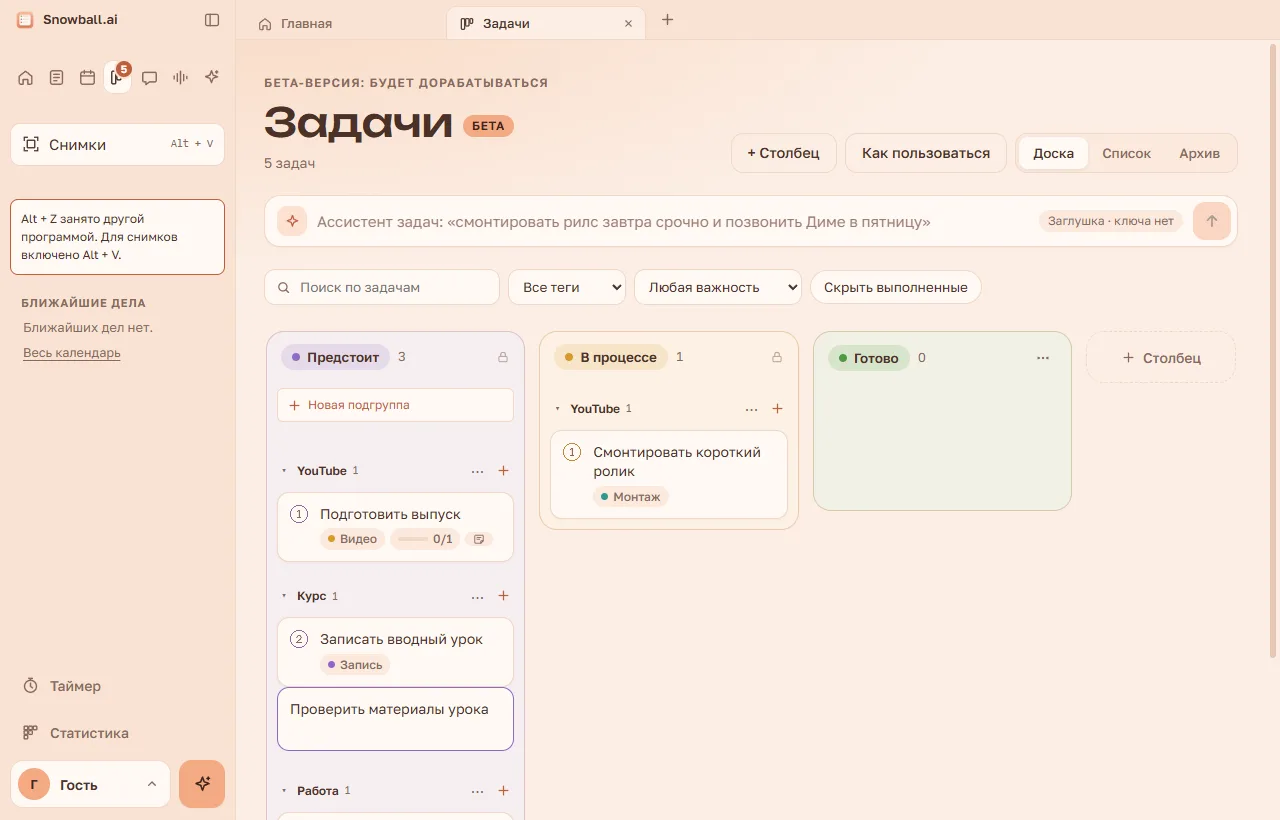
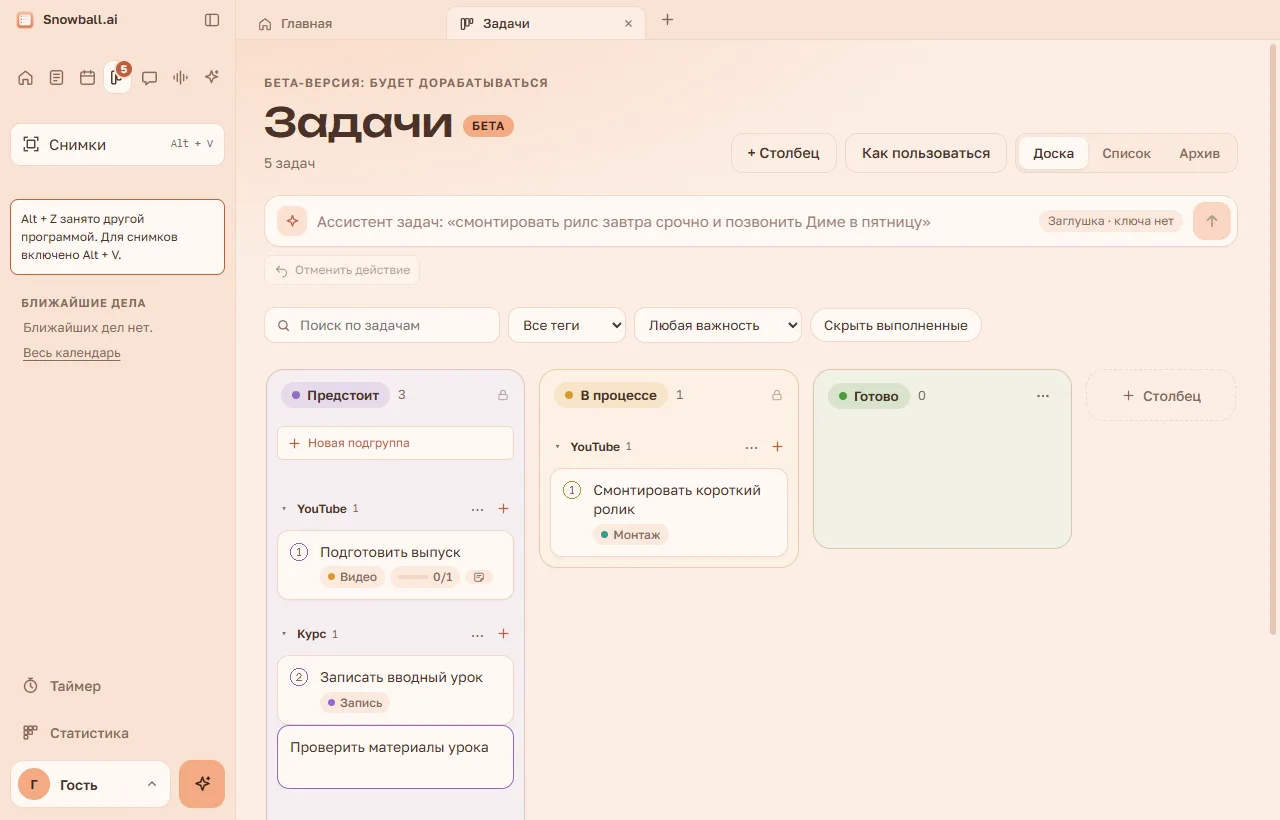
Версия 1.23.3: отмена последних действий ассистента задач

diff --git a/main.js b/main.js
@@ -1,5 +1,7 @@
 'use strict';
 const { taskReferences, taskReferenceSelection, taskColumnReferences, taskTargetGroup, resolveTaskSelection } = require('./task-reference');
+const { TaskUndoHistory, taskUndoRequest } = require('./task-undo');
+const taskHistory = new TaskUndoHistory();
 const { app, BrowserWindow, ipcMain, dialog, shell, clipboard, nativeTheme, nativeImage, Menu, screen, safeStorage, Notification, net } = require('electron');
 const path = require('path');
 const fs = require('fs');
@@ -495,7 +497,7 @@ nativeTheme.on('updated', paintWindows);
 
 /* ---------- IPC ---------- */
 function ok(extra) {
-  return Object.assign({ ok: true, prompts: store.view(), profile: store.profileView(), activity: store.activityView(), events: store.calendarView(), tasks: store.tasksView(), taskColumns: store.columnsView(), taskGroups: store.groupsView(), taskArchiveMode: store.archiveMode, skills: store.skillsView() }, extra || {});
+  return Object.assign({ ok: true, prompts: store.view(), profile: store.profileView(), activity: store.activityView(), events: store.calendarView(), tasks: store.tasksView(), taskColumns: store.columnsView(), taskGroups: store.groupsView(), taskArchiveMode: store.archiveMode, taskUndo: taskHistory.state(), skills: store.skillsView() }, extra || {});
 }
 function fail(e) {
   const code = e && e.code;
@@ -533,7 +535,7 @@ function handle(name, fn) {
 }
 function syncOthers(r, except) {
   const data = { info: info() };
-  if (r.prompts) Object.assign(data, { prompts: r.prompts, events: r.events, tasks: r.tasks, taskColumns: r.taskColumns, taskGroups: r.taskGroups, taskArchiveMode: r.taskArchiveMode, skills: r.skills, profile: r.profile, activity: r.activity });
+  if (r.prompts) Object.assign(data, { prompts: r.prompts, events: r.events, tasks: r.tasks, taskColumns: r.taskColumns, taskGroups: r.taskGroups, taskArchiveMode: r.taskArchiveMode, taskUndo: r.taskUndo, skills: r.skills, profile: r.profile, activity: r.activity });
   if (r.chats) data.chats = r.chats;
   if (r.transcripts) data.transcripts = r.transcripts;
   broadcast('sync', data, except);
@@ -2264,16 +2266,21 @@ const TASK_TOOLS = [
 
 // Every change goes through here and is remembered in log, so «Отменить» can put the tasks back.
 async function loggedTask(log, id, fn) {
-  const before = id ? store.findTask(id) : null;
+  const before = structuredClone(store.tasks);
   const r = await fn();
-  log.push({ before: before ? JSON.parse(JSON.stringify(before)) : null, id: r ? r.id : id });
+  const old = new Map(before.map(t => [t.id, t]));
+  const current = new Map(store.tasks.map(t => [t.id, t]));
+  for (const key of new Set([...old.keys(), ...current.keys()])) {
+    const prev = old.get(key) || null, after = current.get(key) || null;
+    if (JSON.stringify(prev) !== JSON.stringify(after)) log.push({ id: key, before: prev, after: structuredClone(after) });
+  }
   return r;
 }
 async function runTaskTool(name, input, log) {
   const a = input && typeof input === 'object' ? input : {};
   if (name === 'tasks_move') {
     const result = await store.moveTasks(a.ids, { status: a.status, groupId: a.groupId });
-    result.before.forEach(before => log.push({ id: before.id, before }));
+    result.before.forEach(before => log.push({ id: before.id, before, after: structuredClone(store.findTask(before.id)) }));
     return 'Перемещено задач: ' + result.tasks.length + '.';
   }
   if (name === 'tasks_list') return tasksForModel();
@@ -2491,9 +2498,12 @@ async function numericTaskMove(text, log) {
   if (group.error) return group.error;
   const { source, target } = taskColumnReferences(group.text, store.columnsView());
   if (!group.mentioned && !target) return null;
-  const resolved = resolveTaskSelection(selection.numbers, store.tasksView(), source);
+  const snapshot = store.tasksView();
+  const resolved = resolveTaskSelection(selection.numbers, snapshot, source);
   if (resolved.error) return resolved.error;
-  return runTaskTool('tasks_move', { ids: resolved.ids, status: target, groupId: group.mentioned ? group.groupId : null }, log);
+  const selected = resolved.ids.map(id => { const t = snapshot.find(t => t.id === id); return { number: t.number, title: t.title, status: t.status }; });
+  await runTaskTool('tasks_move', { ids: resolved.ids, status: target, groupId: group.mentioned ? group.groupId : null }, log);
+  return 'Перемещено задач: ' + selected.length + '. Из «' + columnName(selected[0].status) + '»: ' + selected.slice(0, 10).map(t => '№ ' + t.number + ' «' + t.title + '»').join(', ') + (selected.length > 10 ? ' и ещё ' + (selected.length - 10) : '') + '. Номера на доске пересчитаны после переноса.';
 }
 async function stubTasksAssistant(text, log) {
   const low = ' ' + text.toLowerCase().replace(/ё/g, 'е') + ' ';
@@ -2595,11 +2605,14 @@ async function stubTasksAssistant(text, log) {
     : 'Добавил ' + made.length + ' ' + (made.length < 5 ? 'задачи' : 'задач') + ' в «Предстоит»: ' + made.map(stubTaskWords).join(', ') + '.';
 }
 
-const taskUndos = new Map();   // undo id -> what one message to the tasks assistant changed
-let taskUndoSeq = 0;
-handle('tasks-assistant', async function (text) {
+handle('tasks-assistant', text => taskHistory.run(async () => {
   const msg = String(text || '').trim().slice(0, 2000);
   if (!msg) return { ok: false, error: 'Напишите, что сделать с задачами.' };
+  const undoCount = taskUndoRequest(msg);
+  if (undoCount !== null) {
+    await taskHistory.undo(store, { count: undoCount });
+    return ok({ reply: 'Отменено действий ассистента: ' + undoCount + '.', changed: [], cost: 0 });
+  }
   store.recordAssistant();
   const model = quickModel();
   const log = [];
@@ -2616,26 +2629,15 @@ handle('tasks-assistant', async function (text) {
     reply = e.userMessage || modelError(e) || 'Ассистент не ответил. Попробуйте ещё раз.';
     failed = true;
   }
-  let undoId = null;
-  if (log.length) {
-    undoId = 'u' + (++taskUndoSeq);
-    taskUndos.set(undoId, log);
-    if (taskUndos.size > 20) taskUndos.delete(taskUndos.keys().next().value);
-  }
+  const undoId = taskHistory.record(log, msg);
   const changed = Array.from(new Set(log.map((x) => x.id).filter((id) => id && store.findTask(id))));
   return ok({ reply: reply || 'Готово.', failed, undoId, changed, cost: runCost.get(controller.signal) || 0, info: info() });
-});
+}));
 // «Отменить» under the answer: everything that message changed goes back, newest change first.
-handle('tasks-assistant-undo', async (undoId) => {
-  const log = taskUndos.get(undoId);
-  if (!log) return { ok: false, error: 'Отменить уже нельзя.' };
-  taskUndos.delete(undoId);
-  for (const x of log.slice().reverse()) {
-    if (x.before) await store.putTask(x.before);
-    else if (x.id) await store.deleteTask(x.id);
-  }
+handle('tasks-assistant-undo', undoId => taskHistory.run(async () => {
+  await taskHistory.undo(store, { id: undoId });
   return ok();
-});
+}));
 
 /* ---------- the calendar assistant ---------- */
 // The bar above the calendar works like the one above the tasks: the cheapest model, every message is a separate

diff --git a/src/app.js b/src/app.js
@@ -42,6 +42,7 @@
     tasks: [],            // tasks board: { id, title, status (a column id), note, due, time, priority, tags, subtasks, doneFrom, order }
     taskColumns: [],      // all task columns in order: { id, name, base? , color? }
     taskGroups: [],
+    taskUndo: { count: 0, id: null, text: "" },
     taskArchiveMode: "day", // done tasks go to the archive by themselves: "day", "week" or "manual"
     skills: [],           // «Скиллы» on the «Промты» page: { id, title, type, desc, descBy, descCost, descAt, file, main, inside, files, text, createdAt }
     lib: "prompts",       // which list the «Промты» page shows: "prompts" or "skills"
@@ -106,7 +107,7 @@
     setDir: $("set-dir"), setDirChange: $("set-dir-change"), setBackupSave: $("set-backup-save"), setBackupOpen: $("set-backup-open"), themeValue: $("theme-value"),
     timerRow: $("timer-row"), timerPop: $("timer-pop"),
     tabs: $("tabs"), tabPlus: $("tab-plus"), soloTitle: $("solo-title"), soloBack: $("solo-back"), tabMenu: $("tab-menu"), upList: $("up-list"), board: $("board"), tasksMeta: $("tasks-meta"),
-    tbar: $("tbar"), tbarInput: $("tbar-input"), tbarModel: $("tbar-model"), tbarSend: $("tbar-send"), tnotes: $("tnotes"),
+    tbar: $("tbar"), tbarInput: $("tbar-input"), tbarModel: $("tbar-model"), tbarSend: $("tbar-send"), tnotes: $("tnotes"), taskUndo: $("task-undo"), taskUndoCount: $("task-undo-count"),
     tpanel: $("tpanel"), utoast: $("utoast"), utoastText: $("utoast-text"), utoastUndo: $("utoast-undo"),
     tview: $("tview"), tsearch: $("tsearch"), tfTag: $("tf-tag"), tfPrio: $("tf-prio"), tfDone: $("tf-done"), tfReset: $("tf-reset"), tlist: $("tlist"), boardHint: $("board-hint"),
     qa: $("qa"), qaBtn: $("qa-btn"), qaModel: $("qa-model"), qaNew: $("qa-new"), qaFull: $("qa-full"), qaClose: $("qa-close"),
@@ -319,6 +320,7 @@
     if (r.tasks) state.tasks = r.tasks;
     if (r.taskColumns) state.taskColumns = r.taskColumns;
     if (r.taskGroups) state.taskGroups = r.taskGroups;
+    if (r.taskUndo) state.taskUndo = r.taskUndo;
     if (r.taskArchiveMode) state.taskArchiveMode = r.taskArchiveMode;
     if (r.skills) state.skills = r.skills;
   }
@@ -5360,6 +5362,9 @@
     els.tbarModel.textContent = quickModelName();
     els.tbar.classList.toggle("busy", tbar.busy);
     els.tbarInput.disabled = tbar.busy;
+    els.taskUndo.disabled = tbar.busy || !state.taskUndo.count;
+    els.taskUndo.title = state.taskUndo.count ? "Отменить: " + state.taskUndo.text : "Нет действий для отмены. История сохраняется до закрытия программы.";
+    els.taskUndoCount.textContent = state.taskUndo.count ? "Доступно для отмены: " + state.taskUndo.count : "";
     els.tbarSend.disabled = tbar.busy || !els.tbarInput.value.trim();
     els.tbarSend.title = tbar.busy ? "Ассистент разбирает…" : "Отправить (Enter)";
   }
@@ -5388,6 +5393,14 @@
     }, function () { fail(); });
   }
   els.tbar.addEventListener("submit", function (e) { e.preventDefault(); sendTbar(els.tbarInput.value); });
+  els.taskUndo.addEventListener("click", function () {
+    if (tbar.busy || !state.taskUndo.count) return;
+    tbar.busy = true; renderTbar();
+    call(api.tasksAssistantUndo(state.taskUndo.id)).then(function (r) {
+      tbar.busy = false; render();
+      if (r) taskNote({ text: "Последнее действие ассистента отменено." });
+    }, function () { tbar.busy = false; renderTbar(); });
+  });
   els.tbarInput.addEventListener("input", function () { growTbar(); els.tbarSend.disabled = tbar.busy || !els.tbarInput.value.trim(); });
   els.tbarInput.addEventListener("keydown", function (e) {
     if (e.key === "Enter" && !e.isComposing) {

diff --git a/tools/guide-shots/text-1.23.0.js b/tools/guide-shots/text-1.23.0.js
@@ -1,5 +1,5 @@
 'use strict';
-module.exports = { version: '1.23.0', updated: '1.23.0', section: 'tasks', title: 'Задачи: подгруппы и номера', news: 'подгруппы внутри столбцов и своя нумерация на каждом этапе', steps: [
+module.exports = { version: '1.23.0', updated: '1.23.3', section: 'tasks', title: 'Задачи: подгруппы, номера и отмена', news: 'подгруппы, номера задач и отмена последних действий ассистента', steps: [
   { title: 'Разделите задачи на подгруппы', lead: '«Предстоит», «В процессе» и «Готово» — этапы работы. Внутри них можно держать подгруппы «YouTube», «Курс», «Работа» и свои категории.', frames: [{ shot: '01-board', points: [
     { box: 'add', at: [620, 410], label: 'Новая подгруппа', text: 'Кнопка находится наверху «Предстоит». Введите название и сохраните. Подгруппы можно свернуть стрелкой; «⋯» рядом с названием позволяет переименовать подгруппу во всех столбцах.' },
     { box: 'numbers', at: [800, 560], label: 'Номер в кружке', text: 'В каждом столбце нумерация начинается с 1. Нажатие на кружок отмечает задачу готовой; повторное возвращает её в работу.' }
@@ -28,5 +28,9 @@ module.exports = { version: '1.23.0', updated: '1.23.0', section: 'tasks', title
   ] }] },
   { title: 'Верните подзадачу на доску', lead: 'Вложенность не меняет заметку, срок и другие поля задачи.', frames: [{ shot: '09-detach', points: [
     { box: 'detach', at: [690, 300], label: 'Сделать отдельной', text: 'Нажмите эту кнопку, чтобы подзадача снова стала карточкой на доске. Её номер пересчитается по месту в столбце; категория и подробности останутся.' }
+  ] }] }
+  ,{ title: 'Отмените действия ассистента', lead: 'Кнопка остаётся под полем ассистента после исчезновения уведомления. Она отменяет последнее действие; повторное нажатие — предыдущее.', frames: [{ shot: '10-undo', points: [
+    { box: 'undo', at: [780, 370], label: 'Отменить действие', text: 'Можно также написать «Отмени последнее действие», «Отмени последние 2 действия» или «Верни как было». Хранятся последние 20 действий до закрытия программы. Перенос диапазона — одно действие. Если задачу после этого меняли вручную, отмена остановится и сохранит новые правки.' },
+    { box: 'result', at: [780, 620], label: 'Какие задачи перенесены', text: 'Ответ показывает исходные номера и названия. После переноса номера на доске пересчитываются, поэтому прежние задачи 6–10 могут стать первыми в подгруппе.' }
   ] }] }
 ] };

diff --git a/src/guides/guides.js b/src/guides/guides.js
@@ -7,10 +7,10 @@
 window.GUIDES = [
   {
     "version": "1.23.0",
-    "updated": "1.23.0",
+    "updated": "1.23.3",
     "section": "tasks",
-    "title": "Задачи: подгруппы и номера",
-    "news": "подгруппы внутри столбцов и своя нумерация на каждом этапе",
+    "title": "Задачи: подгруппы, номера и отмена",
+    "news": "подгруппы, номера задач и отмена последних действий ассистента",
     "steps": [
       {
         "title": "Разделите задачи на подгруппы",
@@ -205,6 +205,35 @@ window.GUIDES = [
                 ],
                 "label": "Сделать отдельной",
                 "text": "Нажмите эту кнопку, чтобы подзадача снова стала карточкой на доске. Её номер пересчитается по месту в столбце; категория и подробности останутся."
+              }
+            ]
+          }
+        ]
+      },
+      {
+        "title": "Отмените действия ассистента",
+        "lead": "Кнопка остаётся под полем ассистента после исчезновения уведомления. Она отменяет последнее действие; повторное нажатие — предыдущее.",
+        "frames": [
+          {
+            "shot": "10-undo",
+            "points": [
+              {
+                "box": "undo",
+                "at": [
+                  780,
+                  370
+                ],
+                "label": "Отменить действие",
+                "text": "Можно также написать «Отмени последнее действие», «Отмени последние 2 действия» или «Верни как было». Хранятся последние 20 действий до закрытия программы. Перенос диапазона — одно действие. Если задачу после этого меняли вручную, отмена остановится и сохранит новые правки."
+              },
+              {
+                "box": "result",
+                "at": [
+                  780,
+                  620
+                ],
+                "label": "Какие задачи перенесены",
+                "text": "Ответ показывает исходные номера и названия. После переноса номера на доске пересчитываются, поэтому прежние задачи 6–10 могут стать первыми в подгруппе."
               }
             ]
           }

diff --git a/task-undo.js b/task-undo.js
@@ -1,0 +1,36 @@
+'use strict';
+// One entry per assistant request, including all dependent task changes.
+class TaskUndoHistory {
+  constructor() { this.entries = []; this.sequence = 0; this.pending = Promise.resolve(); }
+  run(fn) { const next = this.pending.then(fn); this.pending = next.catch(() => {}); return next; }
+  state() { const last = this.entries.at(-1); return { count: this.entries.length, id: last?.id || null, text: last?.text || '' }; }
+  record(log, text) {
+    const changes = new Map();
+    for (const item of log) {
+      const prior = changes.get(item.id);
+      changes.set(item.id, { id: item.id, before: prior ? prior.before : item.before, after: item.after });
+    }
+    const items = [...changes.values()].filter(x => JSON.stringify(x.before) !== JSON.stringify(x.after));
+    if (!items.length) return null;
+    const id = 'u' + (++this.sequence);
+    this.entries.push({ id, text, changes: structuredClone(items) });
+    if (this.entries.length > 20) this.entries.shift();
+    return id;
+  }
+  async undo(store, { id = null, count = 1 } = {}) {
+    const last = this.entries.at(-1);
+    if (!last) throw Object.assign(new Error('empty undo'), { userMessage: 'Пока нечего отменять. История действий доступна до закрытия программы.' });
+    if (id && id !== last.id) throw Object.assign(new Error('undo order'), { userMessage: 'Сначала отмените более позднее действие кнопкой «Отменить действие» над задачами.' });
+    if (!Number.isInteger(count) || count < 1 || count > this.entries.length) throw Object.assign(new Error('undo count'), { userMessage: 'Доступно действий для отмены: ' + this.entries.length + '.' });
+    await store.restoreTaskChanges(this.entries.slice(-count).reverse().map(e => e.changes));
+    this.entries.splice(-count);
+    return count;
+  }
+}
+function taskUndoRequest(text) {
+  const low = String(text).toLowerCase().replace(/ё/g, 'е').trim().replace(/[.!?]+$/, '');
+  if (/^(?:верни|вернуть)\s+(?:все\s+)?как было$/.test(low) || /^(?:отмени|отменить|откати|откатить)(?:\s+(?:пожалуйста|это))?$/.test(low)) return 1;
+  const match = /^(?:отмени|отменить|откати|откатить|верни|вернуть)\s+(?:(?:свои|твои|его)\s+)?(?:последн(?:ее|ие|их|ей|ий)\s+)?(?:(\d+)\s+)?(?:последн(?:ее|ие|их|ей|ий)\s+)?действи[еяй](?:\s+ассистента)?$/.exec(low);
+  return match ? Number(match[1] || 1) : null;
+}
+module.exports = { TaskUndoHistory, taskUndoRequest };

diff --git a/src/guides/1.23.0/boxes.js b/src/guides/1.23.0/boxes.js
@@ -1,3 +1,3 @@
 // Made by tools/guide-shots/run.js: where the buttons are on each screenshot of this guide (pixels of 1280 × 820).
 window.GUIDE_BOXES = window.GUIDE_BOXES || {};
-window.GUIDE_BOXES["1.23.0"] = {"01-board":{"groups":[277,456,237,105],"add":[277,388,237,34],"plus":[493,460,21,21],"numbers":[563,443,18,18]},"02-group-form":{"name":[277,388,237,36],"save":[277,431,91,29]},"03-add-task":{"input":[277,687,237,64],"plus":[493,585,21,21]},"04-move":{"group":[550,539,237,105],"number":[563,588,18,18]},"05-assistant":{"input":[317,202,712,38],"source":[563,443,18,18],"send":[1193,202,38,38]},"06-details":{"group":[973,157,274,32],"column":[879,157,368,32],"number":[879,115,24,24]},"07-context":{"menu":[347,511,250,226],"columns":[731,133,106,39]},"08-nested":{"children":[879,455,368,34],"counter":[320,528,181,21]},"09-detach":{"detach":[879,156,368,29]}};
+window.GUIDE_BOXES["1.23.0"] = {"01-board":{"groups":[277,494,237,105],"add":[277,426,237,34],"plus":[493,498,21,21],"numbers":[563,481,18,18]},"02-group-form":{"name":[277,426,237,36],"save":[277,469,91,29]},"03-add-task":{"input":[277,725,237,64],"plus":[493,623,21,21]},"04-move":{"group":[550,577,237,105],"number":[563,626,18,18]},"05-assistant":{"input":[317,202,712,38],"source":[563,481,18,18],"send":[1193,202,38,38]},"06-details":{"group":[973,157,274,32],"column":[879,157,368,32],"number":[879,115,24,24]},"07-context":{"menu":[347,549,250,226],"columns":[731,133,106,39]},"08-nested":{"children":[879,455,368,34],"counter":[320,566,181,21]},"09-detach":{"detach":[879,156,368,29]},"10-undo":{"undo":[264,255,156,30],"result":[879,648,381,152]}};

diff --git a/src/index.html b/src/index.html
@@ -414,6 +414,7 @@
               <span class="tbar-model" id="tbar-model" title="Ассистент задач — всегда самая дешёвая модель с быстрыми размышлениями"></span>
               <button type="submit" class="tbar-send" id="tbar-send" title="Отправить (Enter)" aria-label="Отправить" disabled><svg viewBox="0 0 24 24" fill="none" stroke="currentColor" stroke-width="2.2" stroke-linecap="round" stroke-linejoin="round" aria-hidden="true"><path d="M12 19V5M6 11l6-6 6 6"/></svg></button>
             </form>
+            <div class="task-undo-row"><button type="button" class="task-undo-btn" id="task-undo" disabled><svg viewBox="0 0 24 24" fill="none" stroke="currentColor" stroke-width="1.8" stroke-linecap="round" stroke-linejoin="round" aria-hidden="true"><path d="m9 5-5 5 5 5M4 10h10a6 6 0 0 1 0 12"/></svg><span>Отменить действие</span></button><span id="task-undo-count" class="task-undo-count"></span></div>
           </div>
           <div class="tfilters" id="tfilters">
             <label class="tsearch"><svg viewBox="0 0 24 24" fill="none" stroke="currentColor" stroke-width="2" stroke-linecap="round" aria-hidden="true"><circle cx="11" cy="11" r="6.5"/><path d="m20 20-4.2-4.2"/></svg><input id="tsearch" type="text" maxlength="100" placeholder="Поиск по задачам" aria-label="Поиск по задачам" autocomplete="off"></label>

diff --git a/src/styles.css b/src/styles.css
@@ -1490,6 +1490,12 @@ h1 .brand { color: var(--accent-strong); }
 
 /* The tasks assistant bar above the board */
 .tbar-wrap { display: grid; gap: 8px; }
+.task-undo-row { display: flex; align-items: center; gap: 10px; }
+.task-undo-btn { display: inline-flex; align-items: center; gap: 6px; border: 1px solid var(--line); border-radius: 8px; padding: 5px 9px; background: var(--surface); color: var(--ink); font: inherit; font-size: 12px; cursor: pointer; }
+.task-undo-btn svg { width: 15px; height: 15px; }
+.task-undo-btn:hover:not(:disabled) { background: var(--surface-2); }
+.task-undo-btn:disabled { opacity: .45; cursor: default; }
+.task-undo-count { color: var(--ink-soft); font-size: 12px; }
 .tbar { display: flex; align-items: flex-end; gap: 10px; padding: 6px 6px 6px 12px; border: 1px solid var(--line); border-radius: 16px; background: var(--surface); box-shadow: var(--shadow); }
 .tbar:focus-within { border-color: var(--accent-strong); }
 .tbar-ico { flex: none; align-self: flex-start; margin-top: 4px; display: grid; place-items: center; width: 30px; height: 30px; border-radius: 10px; background: color-mix(in srgb, var(--accent) 30%, var(--surface)); color: var(--accent-strong); }

diff --git a/storage.js b/storage.js
@@ -1089,6 +1089,21 @@ class Store {
     });
   }
 
+  restoreTaskChanges(batches) {
+    return this.runLists(['tasks'], async function () {
+      for (const changes of batches) {
+        for (const change of changes) {
+          if (JSON.stringify(this.findTask(change.id) || null) !== JSON.stringify(change.after || null)) throw Object.assign(new Error('undo conflict'), { userMessage: 'Эти задачи уже изменились после действия ассистента. Отмена остановлена, чтобы сохранить новые изменения.' });
+        }
+        for (const change of changes) {
+          this.tasks = this.tasks.filter(t => t.id !== change.id);
+          if (change.before) this.tasks.push(structuredClone(change.before));
+        }
+      }
+      await this.writeTasks();
+    });
+  }
+
   // Resolve numbers before calling this method: moving a category can renumber the board.
   moveTasks(ids, { status = null, groupId = null } = {}) {
     return this.runLists(['tasks', 'columns', 'archiveMode'], async function () {

diff --git a/tools/guide-shots/shots-1.23.0.js b/tools/guide-shots/shots-1.23.0.js
@@ -45,5 +45,8 @@ module.exports = async function ({ main, page, shot }) {
   await shot('08-nested',{children:'.tp-subs .tp-sub[data-task-id]',counter:'.task .task-marks'});
   await ev('document.querySelector(".task-child-open").click();true');
   await shot('09-detach',{detach:{sel:'#tpanel button',text:'Сделать отдельной задачей'}});
+  await ev('document.querySelector(".tp-close").click();const input=document.querySelector("#tbar-input");input.value="Перемести задачу 1 из В процессе в подгруппу Курс";input.dispatchEvent(new Event("input",{bubbles:true}));document.querySelector("#tbar").requestSubmit();true');
+  await until('!document.querySelector("#task-undo").disabled && !!document.querySelector(".tnote-text")');
+  await shot('10-undo',{undo:'#task-undo',result:'.tnote'});
   return shot.boxes;
 };

diff --git a/AGENTS.md b/AGENTS.md
@@ -181,3 +181,4 @@
 
 - С 1.23.1 drop на заголовок, пустое место или карточку подгруппы назначает её groupId (в том числе из «Без подгруппы»); drop в пустое место столбца сохраняет прежнюю категорию. Структурный перенос проверяет expectedFields.groupId, свёрнутая подгруппа раскрывается. Смена категории родителя переносит категорию его вложенных задач, которые относятся к прежней группе; Store.putTask также возвращает категории потомков при отмене. Регрессия: tools/task-group-drop-smoke.cjs (исходники или app.asar вторым аргументом).
 - С 1.23.2 taskReferenceSelection понимает диапазоны «с 6-й по 9-ю», «6-9» и списки «6, 8 и 9». numericTaskMove обрабатывает явные переносы по номерам до вызова модели; resolveTaskSelection фиксирует все id по одному снимку номеров и уточняет столбец при неоднозначности. Store.moveTasks записывает весь перенос один раз, сохраняет остальные поля и возвращает снимки для отмены, включая потомков. Модель использует tasks_move со всеми id сразу. Проверки: tools/task-numbers.test.cjs, tools/task-range-smoke.cjs (исходники или app.asar вторым аргументом).
+- С 1.23.3 task-undo.js хранит последние 20 действий ассистента задач до закрытия программы; taskHistory.run последовательно исполняет запросы и отмены. Кнопка #task-undo под полем ассистента, команды «Отмени последнее действие» / «Отмени последние 2 действия». История общая для окон, taskUndo входит в ok/sync. Записи содержат before/after всех затронутых задач, включая потомков; Store.restoreTaskChanges проверяет after и возвращает весь пакет одним сохранением, без перезаписи позднейших правок. Отмены идут строго с последней; ошибка не удаляет историю. numericTaskMove перечисляет исходные номера/названия, а не номера после переноса. Проверки: tools/task-undo.test.cjs и task-range-smoke.cjs, инструкция 1.23.0 updated 1.23.3 (10 шагов).

diff --git a/CHANGELOG.md b/CHANGELOG.md
@@ -1,5 +1,14 @@
 # Что нового в Snowball.ai
 
+## 1.23.3
+
+### Отмена действий ассистента задач
+- Под полем ассистента появилась постоянная кнопка **«Отменить действие»**. Нажимайте её несколько раз, чтобы возвращать последние изменения по очереди. Рядом показано число доступных действий, при наведении — какая команда будет отменена.
+- Можно написать **«Отмени последнее действие»**, **«Отмени последние 2 действия»** или **«Верни как было»**. Хранятся последние 20 действий до закрытия программы. Перенос нескольких задач считается одним действием.
+- Отмена восстанавливает задачи вместе с подзадачами и подробностями. Если после действия ассистента затронутые задачи уже изменили вручную или в другом окне, отмена останавливается, чтобы сохранить новые правки.
+- При переносе по номерам ассистент перечисляет исходные номера и названия карточек. После переноса в подгруппу номера пересчитываются: перенесённые задачи могут оказаться первыми, хотя до переноса имели номера 6–10. Проверен перенос диапазона в уже заполненную подгруппу.
+- Обновлена инструкция раздела «Задачи»: добавлена отмена действий.
+
 ## 1.23.2
 
 ### Ассистент задач
